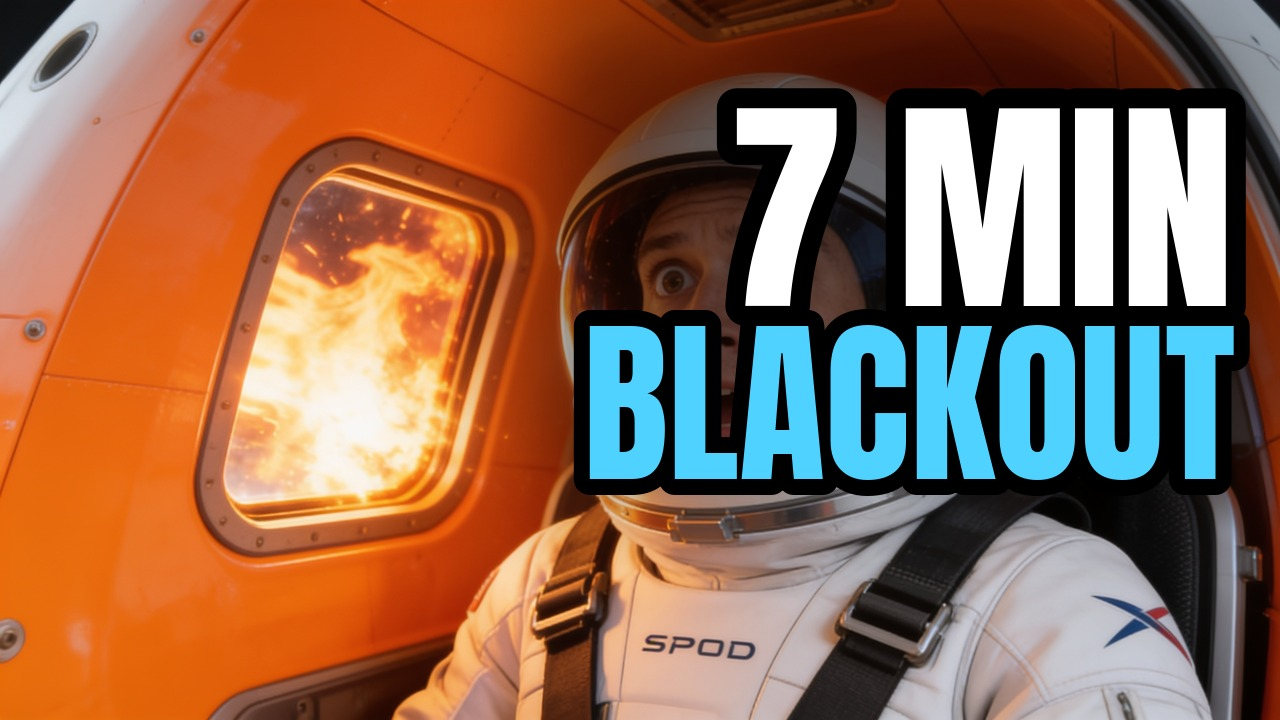
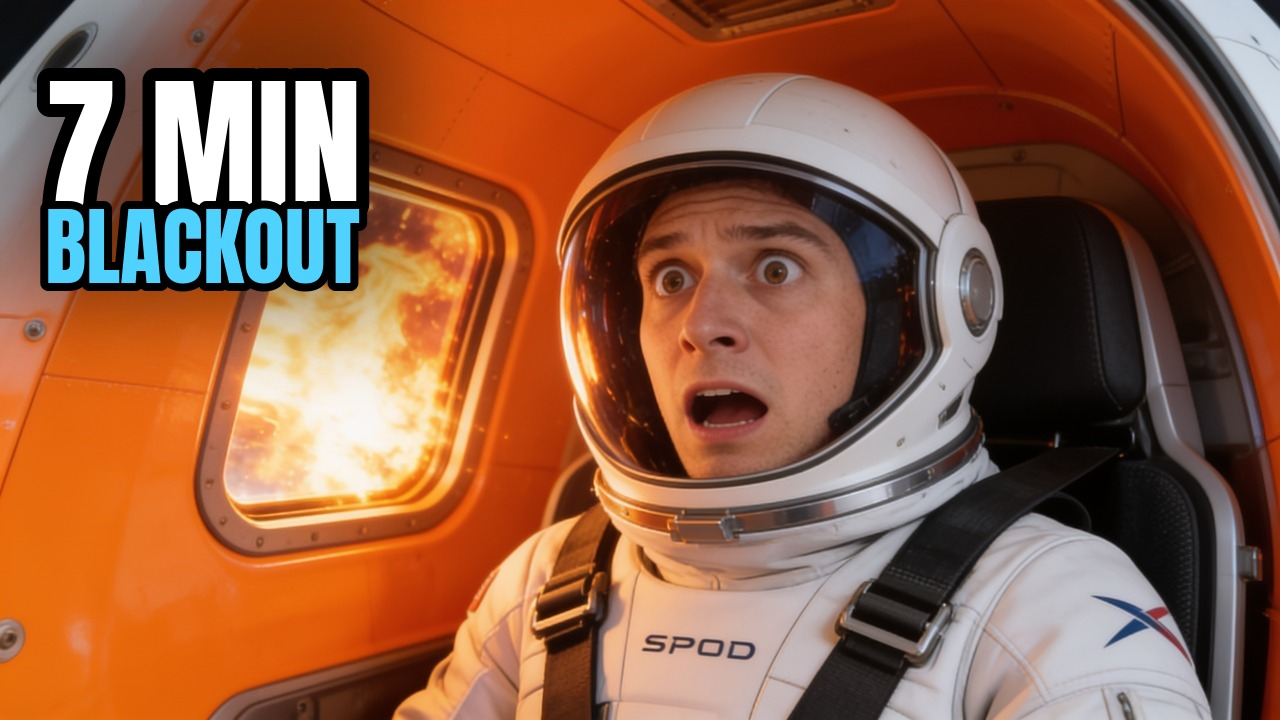
Orbital: scritta copertina mai sulla sagoma della persona (rembg); rifatta copertina 7 MIN BLACKOUT
Claude-Session: https://claude.ai/code/session_013ApoDmMcM7xnohpDpgQ76W

diff --git a/strumenti/video_archivio.py b/strumenti/video_archivio.py
@@ -733,6 +733,23 @@ else:
     except Exception as e:
         log('posizione soggetto non trovata, uso il lato libero previsto:', str(e)[:100])
         sog = (0, 0, 640, 720) if VOLTO_SX else (640, 0, 1280, 720)
+
+    def maschera_persone(img_):
+        # 24 nov (Giorgio, Orbital "7 MIN BLACKOUT" sopra il casco): i riquadri e il si'/no di Haiku possono sbagliare.
+        # Sagoma VERA delle persone (rembg u2net_human_seg, gratis, sul runner): la scritta non deve toccarla.
+        try:
+            from rembg import remove as _rm, new_session as _ns
+            import numpy as _np
+            globals().setdefault('_SESS_UMANI', _ns('u2net_human_seg'))
+            return _np.asarray(_rm(img_, session=_SESS_UMANI, only_mask=True)) > 128
+        except Exception as e_:
+            log('sagoma persone non calcolata:', str(e_)[:100]); return None
+    _mk = maschera_persone(im)
+    if _mk is not None and _mk.mean() > .01:
+        import numpy as _np
+        ys_, xs_ = _np.where(_mk)
+        sog = (min(sog[0], int(xs_.min())), min(sog[1], int(ys_.min())), max(sog[2], int(xs_.max())), max(sog[3], int(ys_.max()))) if sog != (0, 0, 0, 0) else (int(xs_.min()), int(ys_.min()), int(xs_.max()), int(ys_.max()))
+        log('copertina: soggetto (sagoma vera) in', sog)
     if STILE_COP == 'fotogramma':   # 16 nov (Giorgio: scritte troppo piccole): se accanto alla persona c'e' poco spazio, si stringe l'inquadratura
         lib_sx, lib_dx = sog[0], 1280 - sog[2]   # spostando la persona verso un lato: si libera mezza copertina per lettere GRANDI come prima
         if max(lib_sx, lib_dx) < 430 and sog[2] > sog[0]:
@@ -802,6 +819,14 @@ else:
         x0f, x1f = (45, 340) if lato_f2 == 'sx' else (940, 1235)
         ordine.append((0, lato_f2, 'alto', x0f, x1f, 50, 545, _misure(x1f - x0f, 495) or [80] * len(righe)))
     base_cop = im.copy()
+    MASCHERA_COP = maschera_persone(base_cop)
+
+    def _tocca_sagoma(lato, vert, x0, x1, y0, y1, misure):
+        if MASCHERA_COP is None:
+            return False
+        alt_ = sum(int(m * 1.02) for m in misure); ya_ = y0 if vert == 'alto' else y1 - alt_
+        r_ = MASCHERA_COP[max(0, int(ya_) - 10):min(720, int(ya_ + alt_) + 10), max(0, int(x0) - 30):min(1280, int(x1) + 30)]
+        return r_.size > 0 and r_.mean() > .02
 
     def _copre_persona(img_):
         # 17 nov (Giorgio, Orbital: la scritta copriva tutta la faccia): i riquadri di Haiku possono sbagliare, quindi si guarda il risultato (~0,002 $)
@@ -847,6 +872,8 @@ else:
         return im
 
     for k_, (_, lato, vert, x0, x1, y0, y1, misure) in enumerate(ordine):
+        if _tocca_sagoma(lato, vert, x0, x1, y0, y1, misure):
+            log('copertina: la scritta toccherebbe la sagoma della persona (', lato, vert, '): provo un altro posto'); continue
         prova_ = _disegna_scritta(base_cop.copy(), lato, vert, x0, x1, y0, y1, misure)
         if not _copre_persona(prova_):
             im = prova_; break
